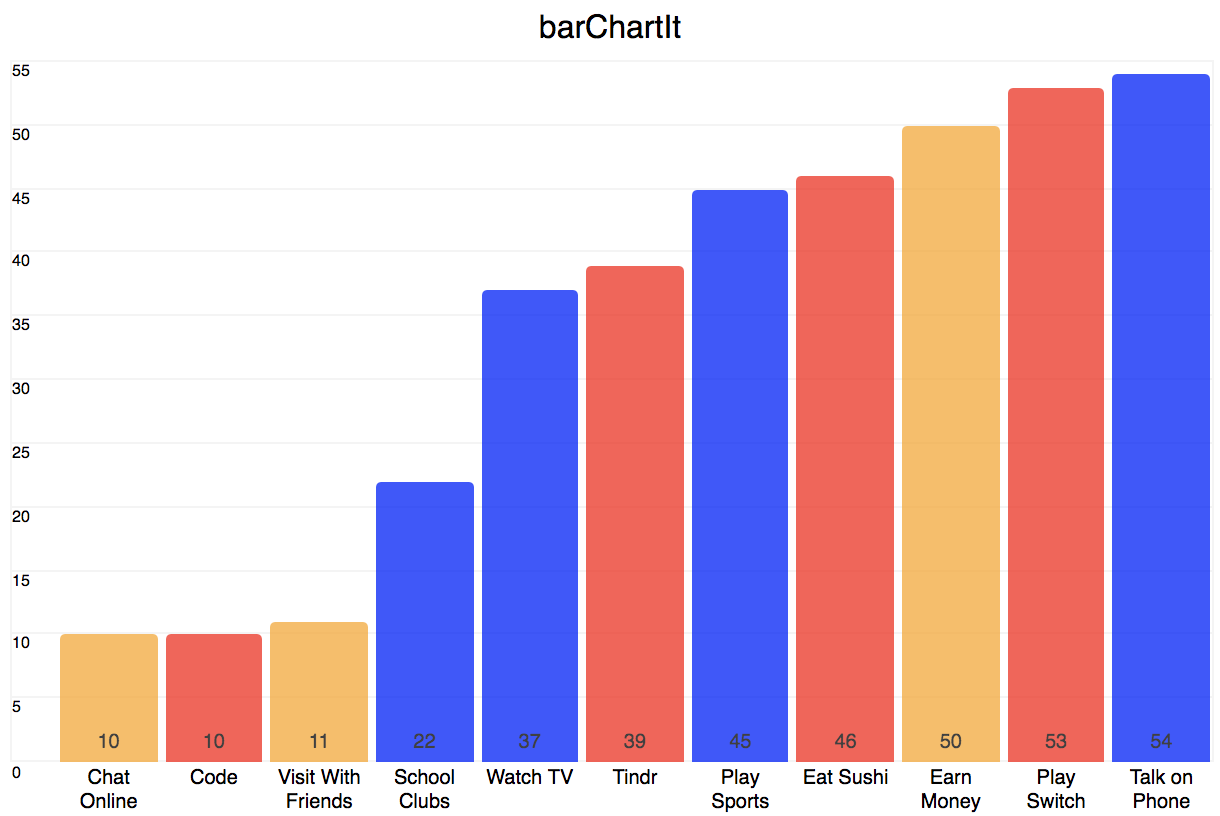
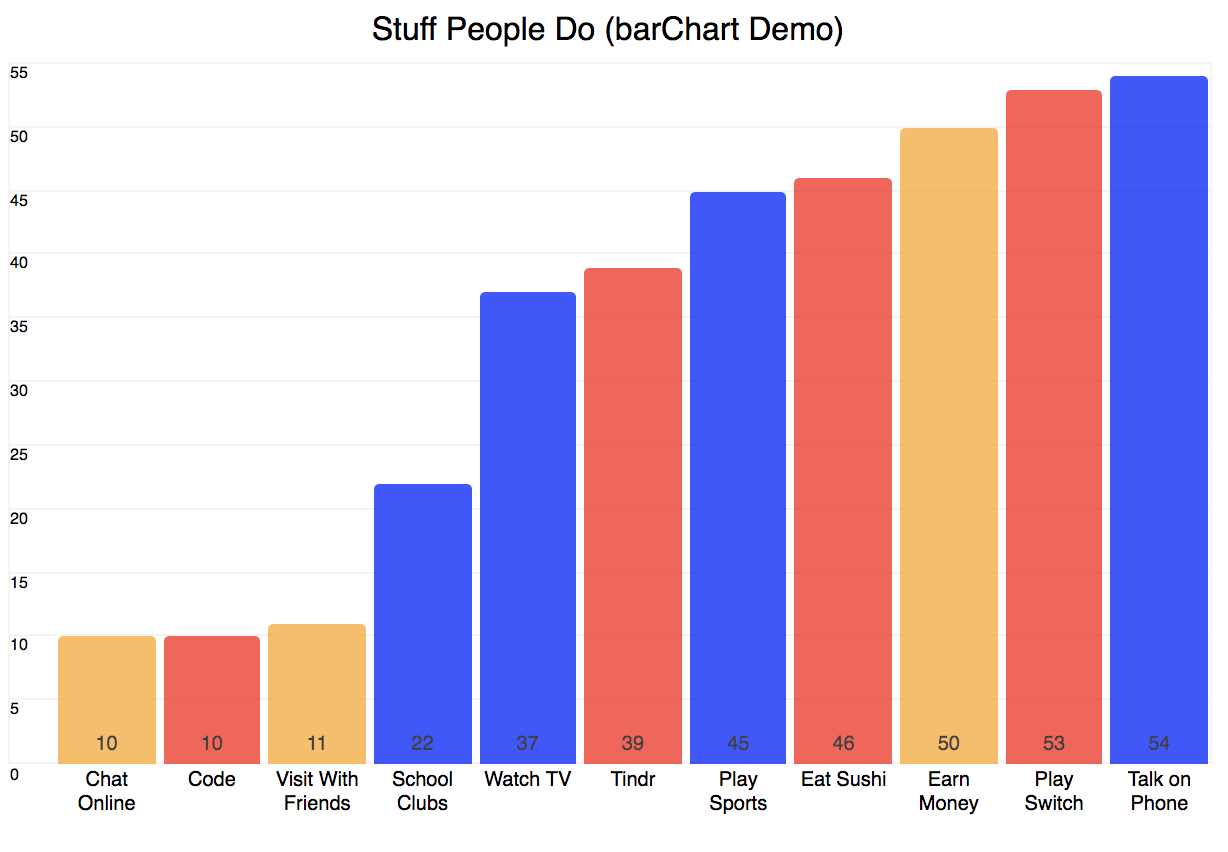
added screenshots

diff --git a/demo/js/app.js b/demo/js/app.js
@@ -25,11 +25,11 @@ const options = {
   "titleFontColour": "black",
   "barColours": ["blue", "red", "orange"],
   "labelColour": "black",
-  "barSpacing": 4,
-  "fontSize": 10,
+  "barSpacing": 5,
+  "fontSize": 12,
   "positionOfValues": "bottom",
   "tickFactor": 5,
-  "sortMethod": "ascending"
+  "sortMethod": ""
 };
 
 const element = '.chart';

diff --git a/README.md b/README.md
@@ -77,14 +77,31 @@ The `options` parameter is optional. If you wish to use barChart's default optio
 ``title``: must be of type string. Adds a title to the top of the bar chart.  
 ``titleFontSize``: must be of type number. Adjusts the title font size.  
 ``titleFontColour``: must be of type string. Defines the title colour. Can be either a CSS Colour Name or hex value.  
-``barColours``: must be of type array. It defines the colours of the bars. It is a single array listing colour in the order you wish to assign to the data sets (i.e. the first dataset will be assigned a the first colour of the array, the second dataset will be assigned the second colour in the array, etc.).  
+``barColours``: must be of type array. It defines the colours of the bars. It is a single array listing colour in the order you wish to assign to the data sets (i.e. the first dataset will be assigned a the first colour of the array, the second dataset will be assigned the second colour in the array, etc.). For example, defining `barColours` as `["magenta", "cyan", "aquamarine"]` will produce a bar chart as such:
+![barChart Colours Screenshot](https://raw.githubusercontent.com/fiveache/barChart/master/docs/screenshots/barChartColours.png)
 ``labelColour``: must be of type string. Defines the label colour. Can be either a CSS Colour Name or hex value.  
-``barSpacing``: must be of type number. It defines the number of pixels between each bar in the bar chart.  
+``barSpacing``: must be of type number. It defines the number of pixels between each bar in the bar chart. For example, a barChart with `20` `barSpacing` will look as such:
+![barChart With 20 barSpacing](https://raw.githubusercontent.com/fiveache/barChart/master/docs/screenshots/barChart20px.png)
 ``fontSize``: must be of type number. Adjusts the font size of labels in the bar chart.  
 ``positionOfValues``: must be of type string with either values of `top`, `bottom`, or `center`. Adjusts the position of number labels o the bars in the chart.  
-``tickFactor``: must be of type number. It defines the factor by which the values on the left of the bar chart increments.  
-``sortMethod``: must be of type string with either values of `ascending` or `descending`. It defines the sort order of the bars.  
+For example, a `positionOfValues` of `top` will look as such:
+![positionOfValues With value of top](https://raw.githubusercontent.com/fiveache/barChart/master/docs/screenshots/top.png)
+A `positionOfValues` of `bottom` will look as such:
+![positionOfValues With value of bottokm](https://raw.githubusercontent.com/fiveache/barChart/master/docs/screenshots/bottom.png)
+A `positionOfValues` of `center` will look as such:
+![positionOfValues With value of center](https://raw.githubusercontent.com/fiveache/barChart/master/docs/screenshots/center.png)
+``tickFactor``: must be of type number. It defines the factor by which the values on the left of the bar chart increments. For example, a `tickFactor` of `2` will look as such:
+![tickFactor with value of 2](https://raw.githubusercontent.com/fiveache/barChart/master/docs/screenshots/tick2.png)
+a `tickFactor` of `5` will look as such:
+![tickFactor with value of 5](https://raw.githubusercontent.com/fiveache/barChart/master/docs/screenshots/tick5.png)
+``sortMethod``: must be of type string with either values of `ascending` or `descending`. It defines the sort order of the bars. For example, a `sortMethod` with a value of `descending` will look as such:
+![sortMethod with a value of descending](https://raw.githubusercontent.com/fiveache/barChart/master/docs/screenshots/descending.png)
+a `sortMethod` with a value of `ascending` will look as such:
+![sortMethod with a value of ascending](https://raw.githubusercontent.com/fiveache/barChart/master/docs/screenshots/ascending.png)
+an undefined `sortMethod` will default to:
+![sortMethod not defined](https://raw.githubusercontent.com/fiveache/barChart/master/docs/screenshots/nosort.png)
 
+  
 The options object should be structured as such:  
 ```
 const options = {
@@ -101,7 +118,7 @@ const options = {
 };
 ```
 ### element Parameter
-The `element` parameter should either be a DOM element represented as a string value or jQuery element that the chart will get rendered into. You can either pass in a jQuery object as such: ``$(".barChart")`` or you can pass in the value as a string: ``".barChart"``.
+The `element` parameter is mandatory and should either be a DOM element represented as a string value or jQuery element that the chart will get rendered into. In referencing the `div` you created in previous steps, you can either pass in a jQuery object as such: ``$(".barChart")`` or you can pass in the value as a string: ``".barChart"``.
 
 
 ### Example
